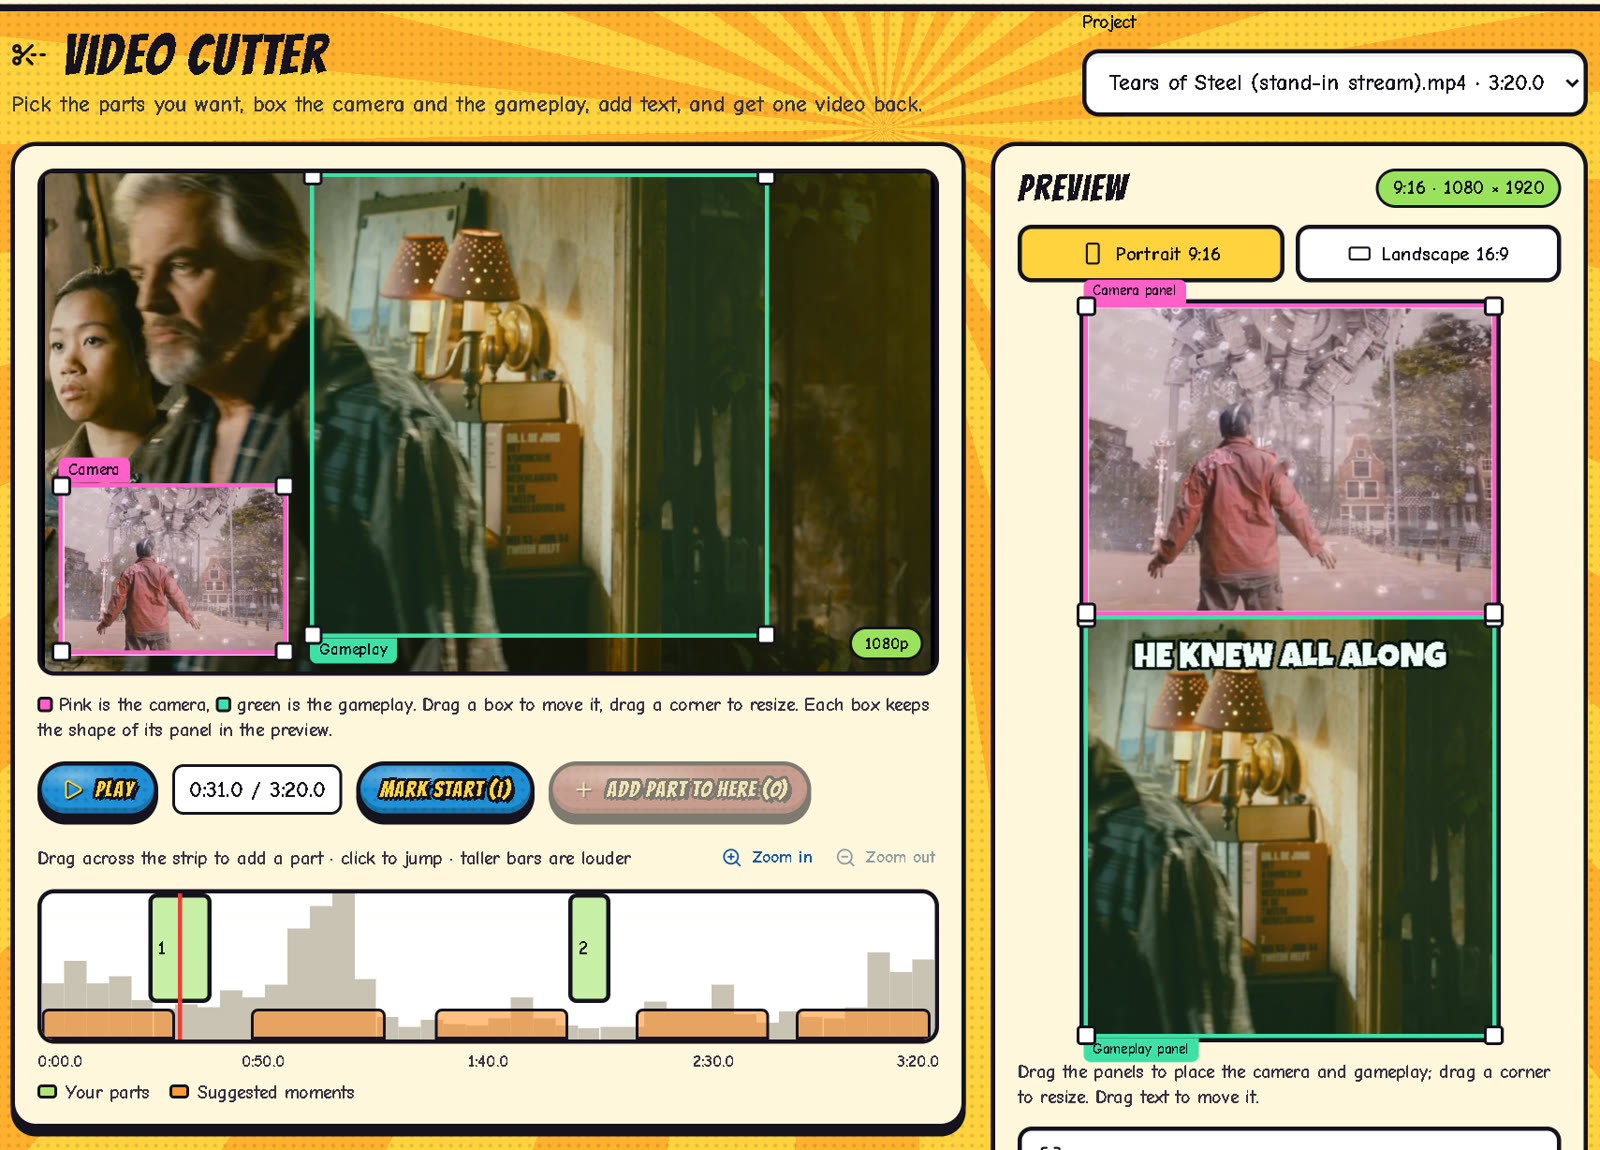
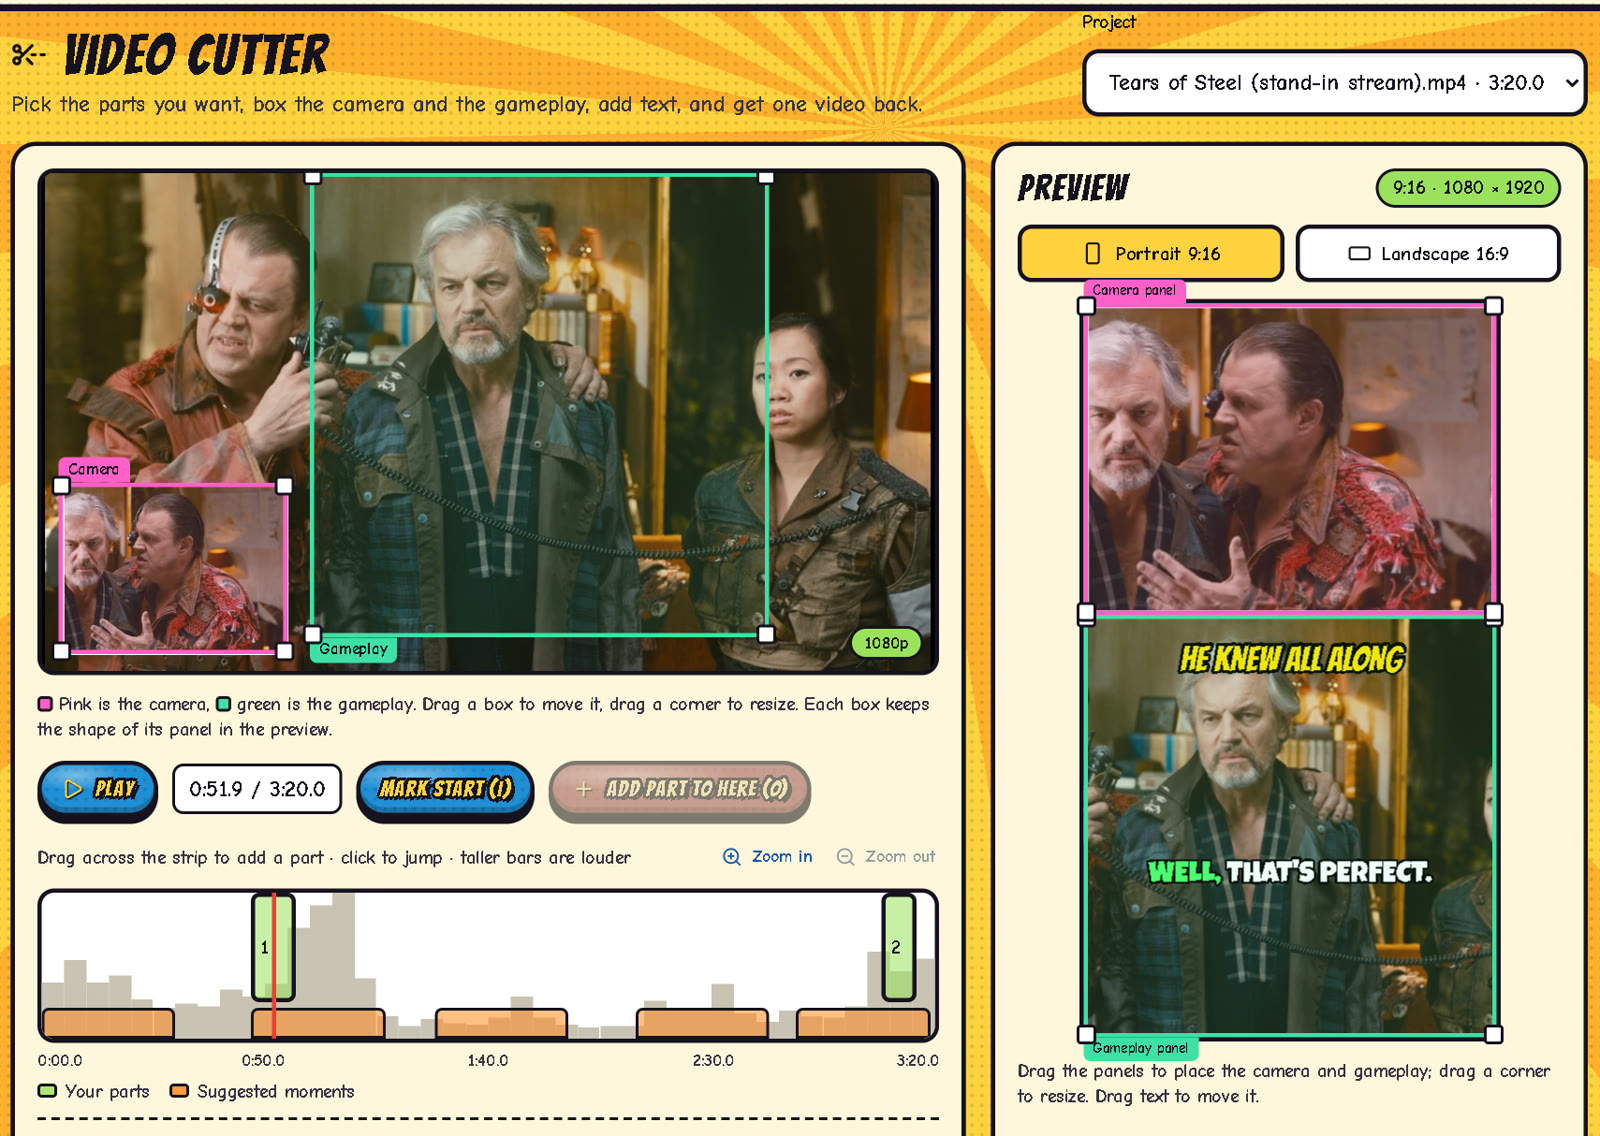
docs: new screenshots with auto captions and the TikTok post picker
Retaken from Tears of Steel (CC BY 3.0, Blender Foundation): the Video cutter with a title and live
auto captions, the preview panel with caption styles and 4K, and "Post this cut" (YouTube draft or TikTok).

diff --git a/README.md b/README.md
@@ -32,16 +32,20 @@ All three clips were made by OpenClip from one 12-minute film, *Tears of Steel* 
 
 **Posting calendar:** edit titles and descriptions, schedule, and upload privately to YouTube.
 
-### New: Video cutter, raw clips and portrait or landscape
+### New: Video cutter, auto captions, TikTok and portrait or landscape
 
-![Video cutter: pick parts on the timeline, box the camera (pink) and the gameplay (green), and see the result live](docs/media/video-cutter.jpg)
+![Video cutter: parts on the timeline, the camera (pink) and gameplay (green) boxed, and the finished Short live with a title and auto captions](docs/media/video-cutter.jpg)
 
-**Video cutter:** pick parts on the loudness timeline, box the camera and the gameplay on the video, and see the finished Short live, with your caption on it.
+**Video cutter:** pick parts on the loudness timeline, box the camera and the gameplay, and see the finished Short live, with your title and auto captions (the word being said lights up).
 
 | | |
 | :---: | :---: |
-| ![Preview, layout presets, text and export quality up to 2K](docs/media/cutter-preview-text.jpg) | ![New project: choose portrait or landscape, then meme, standard or raw clips](docs/media/new-project-shape.jpg) |
-| **Layout, text and quality:** presets, Find the camera, captions in 8 fonts, export in 720p, 1080p or 2K | **New project:** choose 9:16 or 16:9 first, then a meme edit, standard clips or raw clips (no transcription, no edits) |
+| ![Preview, layout presets, auto caption styles, text and export quality up to 4K](docs/media/cutter-preview-text.jpg) | ![Post this cut: save a YouTube draft or send it to the TikTok inbox](docs/media/post-tiktok.jpg) |
+| **Layout, captions, text and quality:** presets, Find the camera, auto captions styled like text, 8 fonts, export from 720p to 4K | **Post without downloading:** save a YouTube draft to the calendar, or send a portrait cut to your TikTok inbox |
+
+![New project: choose portrait or landscape, then meme, standard or raw clips](docs/media/new-project-shape.jpg)
+
+**New project:** choose 9:16 or 16:9 first, then a meme edit, standard clips or raw clips (no transcription, no edits).
 
 ## What it does
 
